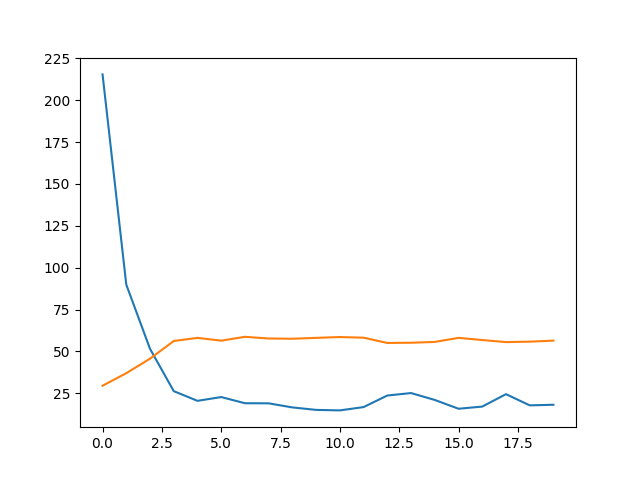
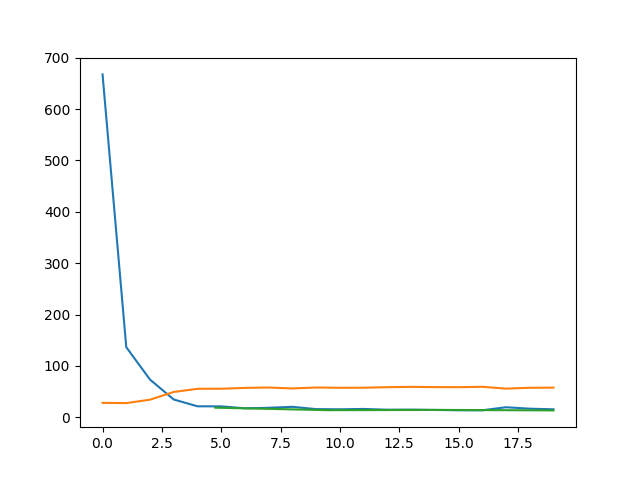
added validation curves

diff --git a/Assignement 1/100201006_HW1.py b/Assignement 1/100201006_HW1.py
@@ -16,12 +16,15 @@ from torch.utils.data import DataLoader,TensorDataset
 #                                BOSTON HOUSING                                #
 # ---------------------------------------------------------------------------- #
 
+print("# ------------------------------ BOSTON HOUSING ------------------------------ #")
 
 # --------------------------------- CONSTANT --------------------------------- #
 PATH = "./introduction_deep/Assignement 1/"
 EPOCHS = 20
 BATCH_SIZE = 64
 x = np.linspace(0,EPOCHS-1,EPOCHS)
+x_validation = np.linspace(0,EPOCHS-1,int(EPOCHS/5)+1)
+x_validation = x_validation[1:]
 
 
 # ------------------------------ DATASET LOADING ----------------------------- #  
@@ -43,7 +46,6 @@ class BostonFFN(nn.Module):
         out = self.fc1(inp)
         out = self.ReLU(out)
         out = self.fc2(out)
-        out = self.ReLU(out)
         return out
 
 boston_model = BostonFFN()
@@ -54,6 +56,7 @@ optimizer = optim.Adam(boston_model.parameters(), lr=0.01)
 # --------------------------------- TRAINING --------------------------------- #
 y_boston_loss = []
 y_boston_diff = []
+y_boston_val_loss = []
 for epoch in range(EPOCHS): 
     sum_loss = 0
     sum_difference = 0
@@ -74,20 +77,21 @@ for epoch in range(EPOCHS):
     
     # -------------------------------- VALIDATION -------------------------------- #
     if (epoch+1)%5==0:
-         with torch.no_grad():
-                sum_loss = 0
-                sum_difference = 0
-                for data in testloader:
-                    inputs = data[:-1]
-                    labels = data[-1]
-                    outputs = boston_model(inputs)
-                    loss = criterion(outputs, labels)
-                    sum_loss+= loss.item()
-                    sum_difference+= abs(labels-outputs.item())
-                print(f"[VALIDATION] Average loss: {sum_loss/len(testloader)}, Average difference: {sum_difference/len(testloader)}")
-
+        with torch.no_grad():
+            sum_loss = 0
+            sum_difference = 0
+            for data in testloader:
+                inputs = data[:-1]
+                labels = data[-1]
+                outputs = boston_model(inputs)
+                loss = criterion(outputs, labels)
+                sum_loss+= loss.item()
+                sum_difference+= abs(labels-outputs.item())
+            print(f"[VALIDATION] Average loss: {sum_loss/len(testloader)}, Average difference: {sum_difference/len(testloader)}")
+        y_boston_val_loss.append(sum_loss/len(testloader))
 plt.plot(x, y_boston_diff)
 plt.plot(x, y_boston_loss)
+plt.plot(x_validation,y_boston_val_loss)
 plt.savefig(PATH+"boston.png")   
 
 
@@ -95,6 +99,7 @@ plt.savefig(PATH+"boston.png")
 #                                 BREAST CANCER                                #
 # ---------------------------------------------------------------------------- #
 
+print("# ------------------------------- BREAST CANCER ------------------------------ #")
 
 # ---------------------------- DATA PREPROCESSING ---------------------------- #
 data_task2 = load_breast_cancer()
@@ -134,6 +139,7 @@ metric = BinaryAccuracy()
 # --------------------------------- TRAINING --------------------------------- #
 y_cancer_loss = []
 y_cancer_acc = []
+y_cancer_val_loss = []
 for epoch in range(EPOCHS): 
     sum_loss = 0
     accuracy = 0
@@ -158,16 +164,19 @@ for epoch in range(EPOCHS):
                 loss = criterion_cancer(outputs, label)
                 sum_loss+= loss.item()
         print(f"[VALIDATION] Average loss: {sum_loss*BATCH_SIZE/len(cancer_test_loader)}")
+        y_cancer_val_loss.append(sum_loss*BATCH_SIZE/len(cancer_test_loader))
 
 plt.clf()
 plt.plot(x,y_cancer_loss)
 plt.plot(x,y_cancer_acc)
+plt.plot(x_validation,y_cancer_val_loss)
 plt.savefig(PATH+"cancer.png")
 
 # ---------------------------------------------------------------------------- #
 #                                     MNIST                                    #
 # ---------------------------------------------------------------------------- #
 
+print("# ----------------------------------- MNIST ---------------------------------- #")
 
 # ---------------------------- DATA PREPROCESSING ---------------------------- #
 (train_images,train_labels),(test_images, test_labels) = fashion_mnist.load_data()
@@ -217,6 +226,7 @@ metric = Accuracy(task="multiclass", num_classes=10)
 # --------------------------------- TRAINING --------------------------------- #
 y_mnist_loss = []
 y_mnist_acc = []
+y_mnist_val_loss = []
 for epoch in range(EPOCHS):
     sum_loss = 0
     accuracy = 0
@@ -247,8 +257,10 @@ for epoch in range(EPOCHS):
                 sum_loss += loss.item()
                 
         print(f"[VALIDATION] Average loss: {sum_loss*BATCH_SIZE/len(mnist_train_loader)}")
+        y_cancer_val_loss.append(sum_loss*BATCH_SIZE/len(mnist_train_loader))
 
 plt.clf()
 plt.plot(x,y_mnist_loss)
 plt.plot(x,y_mnist_acc)
+plt.plot(x_validation,y_mnist_val_loss)
 plt.savefig(PATH+"mnist.png")
